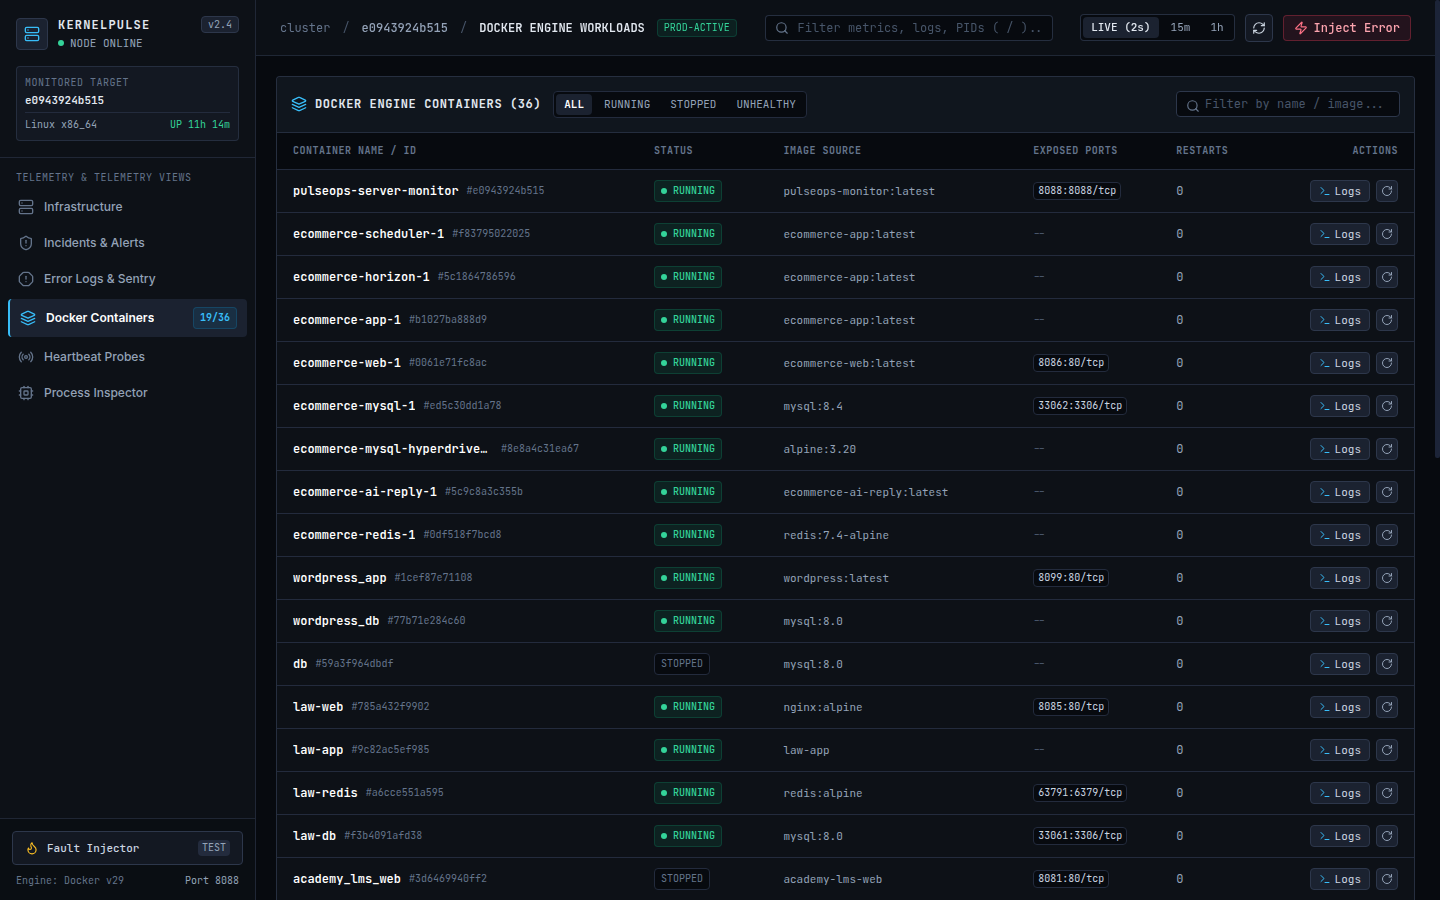
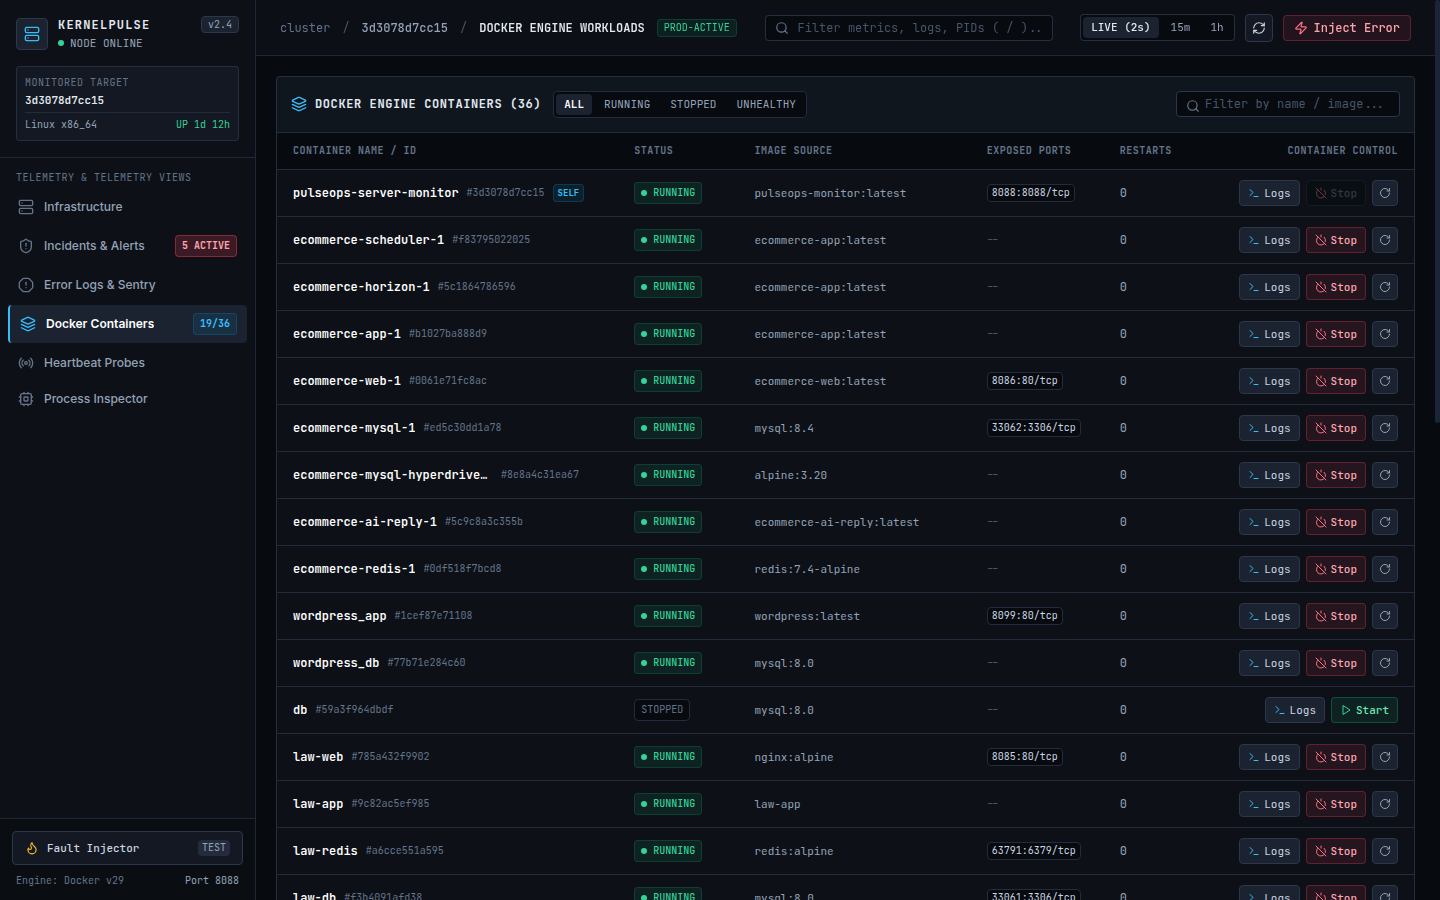
feat: add container stop (turn off) and start lifecycle controls

diff --git a/frontend/src/components/DockerContainerGrid.jsx b/frontend/src/components/DockerContainerGrid.jsx
@@ -8,15 +8,18 @@ import {
   AlertCircle, 
   ShieldAlert,
   Terminal,
-  Square,
-  Play
+  PowerOff,
+  Play,
+  RotateCcw
 } from 'lucide-react';
-import { restartContainer } from '../services/api';
+import { restartContainer, stopContainer, startContainer } from '../services/api';
 
 export default function DockerContainerGrid({ containersData, onOpenLogsModal, onRefresh }) {
   const [search, setSearch] = useState('');
   const [statusFilter, setStatusFilter] = useState('ALL');
   const [restartingId, setRestartingId] = useState(null);
+  const [stoppingId, setStoppingId] = useState(null);
+  const [startingId, setStartingId] = useState(null);
   const [actionMessage, setActionMessage] = useState(null);
 
   const isDockerAvailable = containersData?.docker_available !== false;
@@ -50,6 +53,39 @@ export default function DockerContainerGrid({ containersData, onOpenLogsModal, o
       setTimeout(() => setActionMessage(null), 4000);
     } finally {
       setRestartingId(null);
+    }
+  };
+
+  const handleStop = async (id, name) => {
+    if (!window.confirm(`Turn OFF (stop) Docker container '${name}'?`)) return;
+    setStoppingId(id);
+    setActionMessage(`Stopping container ${name}...`);
+    try {
+      await stopContainer(id);
+      setActionMessage(`Container ${name} turned OFF.`);
+      setTimeout(() => setActionMessage(null), 3000);
+      onRefresh();
+    } catch (err) {
+      setActionMessage(`Failed to stop ${name}: ${err?.response?.data?.detail || err.message}`);
+      setTimeout(() => setActionMessage(null), 4000);
+    } finally {
+      setStoppingId(null);
+    }
+  };
+
+  const handleStart = async (id, name) => {
+    setStartingId(id);
+    setActionMessage(`Starting container ${name}...`);
+    try {
+      await startContainer(id);
+      setActionMessage(`Container ${name} turned ON.`);
+      setTimeout(() => setActionMessage(null), 3000);
+      onRefresh();
+    } catch (err) {
+      setActionMessage(`Failed to start ${name}: ${err?.response?.data?.detail || err.message}`);
+      setTimeout(() => setActionMessage(null), 4000);
+    } finally {
+      setStartingId(null);
     }
   };
 
@@ -157,12 +193,16 @@ export default function DockerContainerGrid({ containersData, onOpenLogsModal, o
               <th className="py-2.5 px-4">Image Source</th>
               <th className="py-2.5 px-4">Exposed Ports</th>
               <th className="py-2.5 px-4">Restarts</th>
-              <th className="py-2.5 px-4 text-right">Actions</th>
+              <th className="py-2.5 px-4 text-right">Container Control</th>
             </tr>
           </thead>
           <tbody className="divide-y divide-ops-750 text-slate-300">
             {filteredContainers.map((c) => {
               const isRestarting = restartingId === c.id;
+              const isStopping = stoppingId === c.id;
+              const isStarting = startingId === c.id;
+              const isBusy = isRestarting || isStopping || isStarting;
+              const isSelf = c.name === "pulseops-server-monitor" || c.name === "servermon-app";
 
               return (
                 <tr key={c.id} className="hover:bg-ops-850/60 transition-colors">
@@ -174,6 +214,11 @@ export default function DockerContainerGrid({ containersData, onOpenLogsModal, o
                         {c.name}
                       </span>
                       <span className="text-slate-500 text-[10px]">#{c.id}</span>
+                      {isSelf && (
+                        <span className="text-[9px] px-1 py-0.2 rounded bg-sky-500/10 text-sky-400 border border-sky-500/20 font-bold">
+                          SELF
+                        </span>
+                      )}
                     </div>
                   </td>
 
@@ -217,26 +262,60 @@ export default function DockerContainerGrid({ containersData, onOpenLogsModal, o
                     )}
                   </td>
 
-                  {/* Actions */}
+                  {/* Lifecycle Actions */}
                   <td className="py-2.5 px-4 text-right">
                     <div className="flex items-center justify-end space-x-1.5">
+                      
+                      {/* Tail Logs Button */}
                       <button
                         onClick={() => onOpenLogsModal(c.id, c.name)}
-                        className="px-2 py-0.5 rounded bg-ops-800 hover:bg-ops-750 border border-ops-700 text-slate-300 hover:text-white flex items-center space-x-1 text-[11px]"
+                        className="px-2 py-1 rounded bg-ops-800 hover:bg-ops-750 border border-ops-700 text-slate-300 hover:text-white flex items-center space-x-1 text-[11px]"
                         title="Tail stdout/stderr logs"
                       >
                         <Terminal className="w-3 h-3 text-sky-400" />
-                        <span>Logs</span>
+                        <span className="hidden sm:inline">Logs</span>
                       </button>
 
-                      <button
-                        onClick={() => handleRestart(c.id, c.name)}
-                        disabled={isRestarting}
-                        className="p-1 rounded bg-ops-800 hover:bg-ops-750 border border-ops-700 text-slate-400 hover:text-amber-400"
-                        title="SIGTERM & Restart"
-                      >
-                        <RotateCw className={`w-3 h-3 ${isRestarting ? 'animate-spin text-sky-400' : ''}`} />
-                      </button>
+                      {/* Turn Off / Stop Button (When Running) */}
+                      {c.status === 'running' ? (
+                        <button
+                          onClick={() => handleStop(c.id, c.name)}
+                          disabled={isBusy || isSelf}
+                          className={`px-2 py-1 rounded border flex items-center space-x-1 text-[11px] font-medium transition-colors ${
+                            isSelf
+                              ? 'opacity-40 cursor-not-allowed bg-ops-950 border-ops-750 text-slate-500'
+                              : 'bg-rose-500/10 hover:bg-rose-500/20 text-rose-300 border-rose-500/30 hover:border-rose-500/50'
+                          }`}
+                          title={isSelf ? "Cannot turn off PulseOps monitor itself" : "Turn OFF / Stop this container"}
+                        >
+                          <PowerOff className={`w-3 h-3 ${isStopping ? 'animate-spin' : 'text-rose-400'}`} />
+                          <span>Stop</span>
+                        </button>
+                      ) : (
+                        /* Turn On / Start Button (When Stopped) */
+                        <button
+                          onClick={() => handleStart(c.id, c.name)}
+                          disabled={isBusy}
+                          className="px-2 py-1 rounded bg-emerald-500/10 hover:bg-emerald-500/20 text-emerald-300 border border-emerald-500/30 hover:border-emerald-500/50 flex items-center space-x-1 text-[11px] font-medium transition-colors"
+                          title="Turn ON / Start this container"
+                        >
+                          <Play className={`w-3 h-3 ${isStarting ? 'animate-spin' : 'text-emerald-400'}`} />
+                          <span>Start</span>
+                        </button>
+                      )}
+
+                      {/* Restart Button (When Running) */}
+                      {c.status === 'running' && (
+                        <button
+                          onClick={() => handleRestart(c.id, c.name)}
+                          disabled={isBusy}
+                          className="p-1.5 rounded bg-ops-800 hover:bg-ops-750 border border-ops-700 text-slate-400 hover:text-amber-400 transition-colors"
+                          title="Restart Container"
+                        >
+                          <RotateCw className={`w-3 h-3 ${isRestarting ? 'animate-spin text-sky-400' : ''}`} />
+                        </button>
+                      )}
+
                     </div>
                   </td>
 

diff --git a/frontend/src/services/api.js b/frontend/src/services/api.js
@@ -12,6 +12,8 @@ export const fetchProcesses = (limit = 10) => api.get(`/metrics/processes?limit=
 export const fetchContainers = () => api.get('/containers').then(r => r.data);
 export const fetchContainerLogs = (id, tail = 150) => api.get(`/containers/${id}/logs?tail=${tail}`).then(r => r.data);
 export const restartContainer = (id) => api.post(`/containers/${id}/restart`).then(r => r.data);
+export const stopContainer = (id) => api.post(`/containers/${id}/stop`).then(r => r.data);
+export const startContainer = (id) => api.post(`/containers/${id}/start`).then(r => r.data);
 
 export const fetchErrors = (params = {}) => api.get('/logs/errors', { params }).then(r => r.data);
 export const triggerTestError = (payload) => api.post('/logs/test-error', payload).then(r => r.data);

diff --git a/backend/app/collectors/docker_monitor.py b/backend/app/collectors/docker_monitor.py
@@ -164,3 +164,27 @@ def restart_container(container_id: str) -> Dict[str, Any]:
         return {"success": True, "message": f"Container {container.name} restarted successfully"}
     except Exception as e:
         return {"success": False, "error": str(e)}
+
+def stop_container(container_id: str, timeout: int = 10) -> Dict[str, Any]:
+    client = get_docker_client()
+    if not client:
+        return {"success": False, "error": "Docker not available"}
+    try:
+        container = client.containers.get(container_id)
+        if container.name in ("pulseops-server-monitor", "servermon-app"):
+            return {"success": False, "error": "Cannot stop PulseOps monitor container from its own dashboard"}
+        container.stop(timeout=timeout)
+        return {"success": True, "message": f"Container {container.name} stopped successfully"}
+    except Exception as e:
+        return {"success": False, "error": str(e)}
+
+def start_container(container_id: str) -> Dict[str, Any]:
+    client = get_docker_client()
+    if not client:
+        return {"success": False, "error": "Docker not available"}
+    try:
+        container = client.containers.get(container_id)
+        container.start()
+        return {"success": True, "message": f"Container {container.name} started successfully"}
+    except Exception as e:
+        return {"success": False, "error": str(e)}

diff --git a/backend/app/routes/containers.py b/backend/app/routes/containers.py
@@ -2,7 +2,9 @@ from fastapi import APIRouter, HTTPException
 from backend.app.collectors.docker_monitor import (
     get_containers_summary,
     get_container_logs,
-    restart_container
+    restart_container,
+    stop_container,
+    start_container
 )
 
 router = APIRouter(prefix="/api/containers", tags=["Containers"])
@@ -23,4 +25,18 @@ async def restart_single_container(container_id: str):
     result = restart_container(container_id)
     if not result.get("success"):
         raise HTTPException(status_code=400, detail=result.get("error", "Failed to restart"))
+    return result
+
+@router.post("/{container_id}/stop")
+async def stop_single_container(container_id: str):
+    result = stop_container(container_id)
+    if not result.get("success"):
+        raise HTTPException(status_code=400, detail=result.get("error", "Failed to stop container"))
+    return result
+
+@router.post("/{container_id}/start")
+async def start_single_container(container_id: str):
+    result = start_container(container_id)
+    if not result.get("success"):
+        raise HTTPException(status_code=400, detail=result.get("error", "Failed to start container"))
     return result
